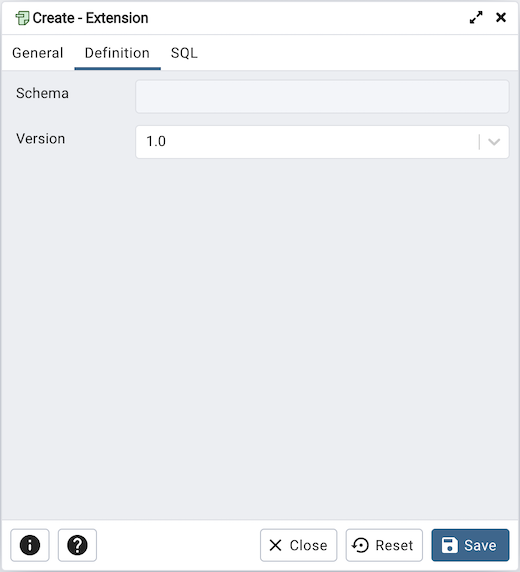
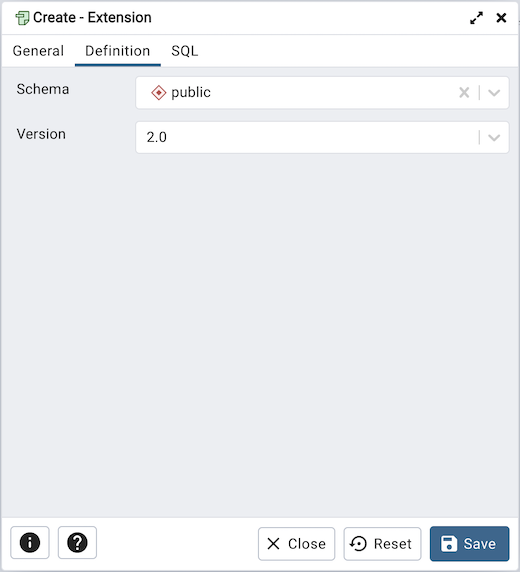
Added cascade option while creating an extension. #3942

diff --git a/web/pgadmin/browser/server_groups/servers/databases/extensions/static/js/extension.ui.js b/web/pgadmin/browser/server_groups/servers/databases/extensions/static/js/extension.ui.js
@@ -20,6 +20,7 @@ export default class ExtensionsSchema extends BaseUISchema {
       schema: '',
       relocatable: false,
       is_sys_obj: false,
+      cascade: false,
       comment: null,
     });
     fieldOptions = {
@@ -86,6 +87,10 @@ export default class ExtensionsSchema extends BaseUISchema {
             });
           }
         }
+      },
+      {
+        id: 'cascade', label: gettext('Cascade?'),
+        type: 'switch', mode: ['create'],
       },
       {
         id: 'oid', label: gettext('OID'), type: 'text',

diff --git a/web/pgadmin/browser/server_groups/servers/databases/extensions/tests/utils.py b/web/pgadmin/browser/server_groups/servers/databases/extensions/tests/utils.py
@@ -19,7 +19,8 @@ def get_extension_data(schema_name):
     data = {
         "name": "cube",
         "relocatable": "true",
-        "schema": schema_name
+        "schema": schema_name,
+        "cascade": "true"
     }
     return data
 

diff --git a/docs/en_US/release_notes_7_6.rst b/docs/en_US/release_notes_7_6.rst
@@ -21,6 +21,7 @@ New features
 ************
 
   | `Issue #2595 <https://github.com/pgadmin-org/pgadmin4/issues/2595>`_ -  Added Expression to CREATE INDEX.
+  | `Issue #3942 <https://github.com/pgadmin-org/pgadmin4/issues/3942>`_ -  Added cascade option while creating an extension.
   | `Issue #6375 <https://github.com/pgadmin-org/pgadmin4/issues/6375>`_ -  Added support for ALTER INDEX column statistics.
   | `Issue #6376 <https://github.com/pgadmin-org/pgadmin4/issues/6376>`_ -  Added unlogged option while creating a sequence.
   | `Issue #6381 <https://github.com/pgadmin-org/pgadmin4/issues/6381>`_ -  Added support for SYSTEM, CONCURRENTLY and TABLESPACE options in REINDEX.
@@ -32,8 +33,8 @@ New features
 Housekeeping
 ************
 
-  | `Issue #6588 <https://github.com/pgadmin-org/pgadmin4/issues/6588>`_ -  Added support for PostgreSQL and EPAS 16 to ensure it works without any errors.
   | `Issue #3702 <https://github.com/pgadmin-org/pgadmin4/issues/3702>`_ -  Generate software bill of materials as part of the package builds.
+  | `Issue #6588 <https://github.com/pgadmin-org/pgadmin4/issues/6588>`_ -  Added support for PostgreSQL and EPAS 16 to ensure it works without any errors.
 
 Bug fixes
 *********

diff --git a/docs/en_US/extension_dialog.rst b/docs/en_US/extension_dialog.rst
@@ -23,6 +23,9 @@ Use the fields in the *General* tab to identify an extension:
 
 * Use the drop-down listbox in the *Name* field to select the extension. Each
   extension must have a unique name.
+* Move the switch next to *Cascade?* towards right position to automatically
+  install any extensions that this extension depends on that are not already
+  installed.
 * Store notes about the extension in the *Comment* field.
 
 Click the *Definition* tab to continue.
@@ -55,7 +58,7 @@ the *Extension* dialog:
     :align: center
 
 The command creates the *adminpack* extension in the *public* schema.  It is
-version *1.0* of *adminpack*.
+version *2.0* of *adminpack*.
 
 * Click the *Info* button (i) to access online help.
 * Click the *Save* button to save work.
